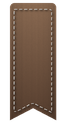
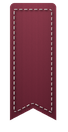
feat(bibliotheque): filtre « Tout », lie de vin seule couleur d'accent (#64)
Signet « en cours » teint en lie de vin (à 100 % il devient le signet
« terminé ») et filtre sélectionné en lie de vin : une seule couleur pour les
états, le reste neutre.

diff --git a/components/ui/FilterChips.tsx b/components/ui/FilterChips.tsx
@@ -1,36 +1,29 @@
 /**
  * Composant FilterChips
  *
- * Une rangée de capsules de filtre, à choix unique :
+ * Une rangée de capsules de filtre, à choix unique, une toujours sélectionnée :
  *
- *    [ En cours ]  [ Non lus ]  [█ Lus █]
+ *    [█ Tout █]  [ En cours ]  [ Non lus ]  [ Lus ]
  *
- * Toucher une capsule la sélectionne ; toucher celle déjà sélectionnée la
- * désélectionne, et tout s'affiche à nouveau. Pas de capsule « Tous » : rien
- * de sélectionné, c'est tout.
- *
- * Carrés arrondis, pas des pilules. Sélectionnée : encre en dégradé (jamais
- * d'aplat), texte crème. Sinon : contour encre sur fond blanc, pour rester
- * lisible par-dessus l'aquarelle du coin.
+ * Carrés arrondis, pas des pilules. Sélectionnée : lie de vin en dégradé, la
+ * couleur d'accent (la même que les signets), texte crème. Sinon : contour encre
+ * sur fond blanc, pour rester lisible par-dessus l'aquarelle du coin.
  */
 
 import { LinearGradient } from 'expo-linear-gradient';
 import React from 'react';
 import { StyleSheet, Text, View } from 'react-native';
-import { borderRadius, colors, fonts, inkAlpha, spacing } from '../../utils/constants';
+import { borderRadius, colors, fonts, inkAlpha, spacing, wineGradient } from '../../utils/constants';
 import PressableScale from './PressableScale';
 
 interface FilterChipsProps<K extends string> {
   options: { key: K; label: string }[];
-  /** Filtre actif, `null` = aucun (tout s'affiche) */
-  value: K | null;
-  onChange: (key: K | null) => void;
+  value: K;
+  onChange: (key: K) => void;
 }
 
 /** Hauteur d'une capsule ; la zone tactile est agrandie à 44 pt par hitSlop */
 export const FILTER_CHIPS_H = 34;
-/** Encre, du noyer vers le noyer profond */
-const SELECTED_GRADIENT = [colors.textSecondary, colors.dark950] as const;
 
 export default function FilterChips<K extends string>({ options, value, onChange }: FilterChipsProps<K>) {
   return (
@@ -42,14 +35,14 @@ export default function FilterChips<K extends string>({ options, value, onChange
             key={option.key}
             style={[styles.chip, !selected && styles.chipIdle]}
             pressedScale={0.94}
-            onPress={() => onChange(selected ? null : option.key)}
+            onPress={() => onChange(option.key)}
             hitSlop={{ top: (44 - FILTER_CHIPS_H) / 2, bottom: (44 - FILTER_CHIPS_H) / 2 }}
             accessibilityRole="button"
             accessibilityLabel={option.label}
             accessibilityState={{ selected }}
           >
             {selected && (
-              <LinearGradient colors={SELECTED_GRADIENT} style={StyleSheet.absoluteFill} />
+              <LinearGradient colors={wineGradient} style={StyleSheet.absoluteFill} />
             )}
             <Text style={[styles.label, selected && styles.labelSelected]}>{option.label}</Text>
           </PressableScale>

diff --git a/components/ui/RibbonBookmark.tsx b/components/ui/RibbonBookmark.tsx
@@ -12,11 +12,11 @@
  *      terminé      en cours     nouveau
  *
  * - `done`    : ruban lie de vin, coche Lucide crème ;
- * - `reading` : ruban écru qu'un brun noyer imprègne depuis le bout, à mon %,
- *               comme une teinture qui monte dans le tissu. Front ondulé et net,
- *               avec une ligne plus foncée là où la teinture s'accumule (comme
- *               le bord d'une aquarelle). Pas de fondu : Lea le trouvait flou.
- *               Le lie de vin reste réservé à « terminé » ;
+ * - `reading` : ruban écru que le lie de vin de « terminé » imprègne depuis le
+ *               bout, à mon %, comme une teinture qui monte dans le tissu : à
+ *               100 %, c'est le signet « terminé ». Front ondulé et net, avec
+ *               une ligne plus foncée là où la teinture s'accumule (comme le bord
+ *               d'une aquarelle). Pas de fondu : Lea le trouvait flou ;
  * - `new`     : ruban écru, étincelle Lucide lie de vin (dernier livre ajouté).
  *
  * Les pictogrammes sont des icônes Lucide posées sur l'image, pas brodés : règle
@@ -53,8 +53,8 @@ const RIBBON_LEFT = 5;
 const RIBBON_WIDTH = 23;
 const RIBBON_TOP = 1.5;
 const RIBBON_END = 60;
-/** Couleur de la ligne plus foncée au front de teinture (noyer profond) */
-const TIDE_LINE = '#3a2a20';
+/** Couleur de la ligne plus foncée au front de teinture (lie de vin profond) */
+const TIDE_LINE = '#3f1520';
 
 /** Pictogramme de chaque ruban : icône Lucide, sa couleur, centrée dans le ruban */
 const ICONS: Record<'done' | 'new', { icon: LucideIcon; color: string; filled: boolean }> = {
@@ -145,7 +145,7 @@ export default function RibbonBookmark(props: RibbonBookmarkProps) {
       </Defs>
 
       <SvgImage href={RIBBONS.track} width={WIDTH} height={HEIGHT} />
-      {/* Le noyer : même tissu, même surpiqûre, calés au pixel, révélés sous le front */}
+      {/* Le lie de vin : même tissu, même surpiqûre, calés au pixel, révélés sous le front */}
       <SvgImage href={RIBBONS.fill} width={WIDTH} height={HEIGHT} clipPath={`url(#dye${id})`} />
       {/* La ligne de teinture accumulée, juste au bord du front */}
       {!full && (

diff --git a/app/library.tsx b/app/library.tsx
@@ -26,7 +26,7 @@ import { useAuthStore } from '../stores/authStore';
 import { useProgressStore } from '../stores/progressStore';
 import { useProjectStore } from '../stores/projectStore';
 import { Challenge } from '../types/supabase';
-import { BookReading, newBookId, readingOf, ReadingState, sortBooks } from '../utils/library';
+import { BookReading, LibraryFilter, newBookId, readingOf, sortBooks } from '../utils/library';
 
 export default function LibraryRoute() {
   const router = useRouter();
@@ -39,8 +39,8 @@ export default function LibraryRoute() {
   const liveProgress = useProgressStore((state) => state.currentUserProgress);
   const userId = useAuthStore((state) => state.user?.id);
   const firstName = useAuthStore((state) => state.user?.first_name);
-  // Filtre En cours / Non lus / Lus : pas retenu, chaque ouverture montre tout
-  const [filter, setFilter] = useState<ReadingState | null>(null);
+  // Filtre Tout / En cours / Non lus / Lus : pas retenu, chaque ouverture montre tout
+  const [filter, setFilter] = useState<LibraryFilter>('all');
 
   // Rafraîchit ma progression en arrière-plan ; le cache s'affiche tout de suite
   useEffect(() => {
@@ -61,7 +61,7 @@ export default function LibraryRoute() {
 
   const books = useMemo(() => {
     const sorted = sortBooks(challenges, progressById);
-    return filter ? sorted.filter((book) => readings[book.id]?.state === filter) : sorted;
+    return filter === 'all' ? sorted : sorted.filter((book) => readings[book.id]?.state === filter);
   }, [challenges, progressById, readings, filter]);
 
   const newId = useMemo(() => newBookId(challenges, progressById), [challenges, progressById]);

diff --git a/components/ui/BookLibrary.tsx b/components/ui/BookLibrary.tsx
@@ -2,7 +2,7 @@
  * Composant BookLibrary
  *
  * La bibliothèque : tous mes livres, rangés sur des étagères empilées,
- * trois couvertures par étagère, sous des filtres En cours / Non lus / Lus.
+ * trois couvertures par étagère, sous des filtres Tout / En cours / Non lus / Lus.
  *
  *    ▐██▌    ┏━━┓    ▛▀▀▜
  *   ░░░░░░░░░░░░░░░░░░░░░░   ← barre en verre flouté, avec ses vis
@@ -35,7 +35,7 @@ import Animated, { Easing, FadeInDown, useReducedMotion } from 'react-native-rea
 import Svg, { Path } from 'react-native-svg';
 import { Challenge } from '../../types/supabase';
 import { colors, creamAlpha, fonts, motion, spacing } from '../../utils/constants';
-import { BookReading, LIBRARY_FILTERS, readingLabel, ReadingState } from '../../utils/library';
+import { BookReading, LIBRARY_FILTERS, LibraryFilter, readingLabel } from '../../utils/library';
 import BookCover, { COVER_RATIO } from './BookCover';
 import RibbonBookmark, { RIBBON_ABOVE_COVER } from './RibbonBookmark';
 import PressableScale from './PressableScale';
@@ -54,9 +54,8 @@ interface BookLibraryProps {
   activeChallengeId: string | null;
   /** Toucher une couverture */
   onSelect: (challenge: Challenge) => void;
-  /** Filtre actif, `null` = tous les livres */
-  filter: ReadingState | null;
-  onFilterChange: (filter: ReadingState | null) => void;
+  filter: LibraryFilter;
+  onFilterChange: (filter: LibraryFilter) => void;
   /** Décor posé SOUS les filtres, dans l'en-tête de la liste (l'aquarelle du coin) */
   headerBackground?: React.ReactNode;
 }

diff --git a/utils/library.ts b/utils/library.ts
@@ -36,7 +36,10 @@ export function readingLabel({ state, percent }: BookReading): string {
 
 // ─── Filtre ────────────────────────────────────────────────────────
 
-export const LIBRARY_FILTERS: { key: ReadingState; label: string }[] = [
+export type LibraryFilter = 'all' | ReadingState;
+
+export const LIBRARY_FILTERS: { key: LibraryFilter; label: string }[] = [
+  { key: 'all', label: 'Tout' },
   { key: 'reading', label: 'En cours' },
   { key: 'unread', label: 'Non lus' },
   { key: 'done', label: 'Lus' },
@@ -75,7 +78,7 @@ export function newBookId(
  * dernière progression ET celle du club : `updated_at` du livre est remis à
  * jour dès qu'un membre avance (trigger `update_challenge_stats`).
  *
- * Plus de choix de tri : les filtres (En cours, Non lus, Lus) l'ont remplacé.
+ * Plus de choix de tri : les filtres (Tout, En cours, Non lus, Lus) l'ont remplacé.
  */
 export function sortBooks(
   books: Challenge[],

diff --git a/utils/constants.ts b/utils/constants.ts
@@ -91,6 +91,13 @@ export const colors = {
 };
 
 /**
+ * Lie de vin : la seule couleur d'accent, pour ce qui dit « état » ou « choisi »
+ * (signets de la bibliothèque, filtre sélectionné). Toujours en dégradé, clair en
+ * haut → foncé en bas. Crème dessus : 7,9:1 sur le clair (#8c3b4c).
+ */
+export const wineGradient = ['#8c3b4c', '#5e1f2e'] as const;
+
+/**
  * Les six post-it du carnet — des pastels tirés vers le noyer.
  *
  * Une couleur = une catégorie, la même pour tout le club. L'encre `ink` garde

diff --git a/scripts/generate-ribbon-bookmarks.py b/scripts/generate-ribbon-bookmarks.py
@@ -20,9 +20,10 @@ Réalisme, dans l'ordre du dessin :
 Variantes :
 - done           : ruban lie de vin, fil crème (livre terminé) ;
 - new            : ruban écru, fil lie de vin (dernier livre ajouté) ;
-- progress-track : ruban écru, fil noyer (livre en cours, le fond) ;
-- progress-fill  : ruban noyer, fil crème, sans ombre (livre en cours, la teinture
-                   que l'app révèle à mon %).
+- progress-track : ruban écru, fil lie de vin (livre en cours, le fond) ;
+- progress-fill  : ruban lie de vin, fil crème, sans ombre (livre en cours, la
+                   teinture que l'app révèle à mon %). À 100 %, c'est le signet
+                   « terminé » : le ruban se teint jusqu'à devenir celui d'un livre lu.
 
 Usage : python3 scripts/generate-ribbon-bookmarks.py
 Dépendances : numpy, Pillow.
@@ -49,20 +50,19 @@ BORDER_INSET = 2.2               # surpiqûre : distance au bord du ruban
 
 WINE = ("#8c3b4c", "#5e1f2e")
 ECRU = ("#f3e9df", "#e1cfbf")
-WALNUT = ("#8a6a52", "#553d2e")
 CREAM_THREAD = "#f6ede4"
 WINE_THREAD = "#7a2e3e"
-WALNUT_THREAD = "#5e4535"
 
 VARIANTS = {
     # Couleur d'accent lie de vin : essai (demande de Lea, 2026-09-17)
     "done": {"ribbon": WINE, "thread": CREAM_THREAD},
     "new": {"ribbon": ECRU, "thread": WINE_THREAD},
-    # En cours : un brun noyer imprègne le ruban écru (le lie de vin est réservé à
-    # « terminé »). L'app révèle le ruban noyer (sans ombre) sous le front, à mon %.
+    # En cours : le lie de vin de « terminé » imprègne le ruban écru. Une seule
+    # couleur d'accent pour les états (Lea, 2026-09-24). L'app révèle le ruban lie
+    # de vin (sans ombre) sous le front, à mon %.
     # Même graine, même géométrie : les deux tissus coïncident au pixel.
-    "progress-track": {"ribbon": ECRU, "thread": WALNUT_THREAD},
-    "progress-fill": {"ribbon": WALNUT, "thread": CREAM_THREAD, "shadow": False},
+    "progress-track": {"ribbon": ECRU, "thread": WINE_THREAD},
+    "progress-fill": {"ribbon": WINE, "thread": CREAM_THREAD, "shadow": False},
 }
 
 

diff --git a/DESIGN.md b/DESIGN.md
@@ -462,10 +462,11 @@ l'accueil.
 Changer de livre ou en ajouter un se fait dans la **bibliothèque**, route
 `/library` en sheet natif titré **Mes lectures**, avec le **+** en verre
 (`GlassButton`) à droite du titre (même parcours que le + de la barre d'onglets).
-Dessous, trois capsules de filtre (`FilterChips`) : **En cours**, **Non lus**,
-**Lus**. Une seule à la fois ; la retoucher la désélectionne et tout revient,
-donc pas de « Tous ». Carrés arrondis (8 pt), pas des pilules. Sélectionnée :
-encre en dégradé, texte crème ; sinon contour sur fond blanc. Les filtres passent
+Dessous, quatre capsules de filtre (`FilterChips`) : **Tout**, **En cours**,
+**Non lus**, **Lus**, une toujours sélectionnée (Tout par défaut). Carrés arrondis
+(8 pt), pas des pilules. Sélectionnée : **lie de vin** en dégradé (`wineGradient`,
+la couleur d'accent, la même que les signets), texte crème ; sinon contour sur
+fond blanc. Les filtres passent
 **par-dessus** l'aquarelle du coin (elle est dans l'en-tête de la liste, dessous). Le filtre n'est pas retenu et le sheet ne rétrécit pas quand on
 filtre. Plus de « Trier par » : l'ordre est fixe, la dernière activité (la
 mienne ou celle du club) en premier. Les
@@ -495,11 +496,13 @@ chaque couverture, calculé sur **ma** progression, jamais sur celle du club :
 - **pas commencé** : rien ;
 - **nouveau** : seul le dernier livre ajouté, tant qu'il n'est pas commencé —
   ruban écru, surpiqûre et étincelle Lucide (`sparkle`) lie de vin ;
-- **en cours** : ruban écru qu'un **brun noyer imprègne depuis le bout du V, à mon
-  %** (10 % au moins, sinon on ne le voit pas), comme une teinture qui monte dans
-  le tissu. Pas le lie de vin, réservé à « terminé ». Front **ondulé et fondu**, avec une ligne à peine plus foncée là où la
-  teinture s'accumule (comme le bord d'une aquarelle) : une coupe droite faisait
-  abrupte. Dans la partie teinte, la surpiqûre passe en crème ;
+- **en cours** : ruban écru que le **lie de vin de « terminé » imprègne depuis le
+  bout du V, à mon %** (10 % au moins, sinon on ne le voit pas), comme une
+  teinture qui monte dans le tissu : à 100 %, c'est le signet « terminé ». Une
+  seule couleur d'accent pour les états (le noyer faisait une couleur de plus).
+  Front **ondulé et net** (le fondu faisait flou), avec une ligne à peine plus
+  foncée là où la teinture s'accumule (comme le bord d'une aquarelle). Dans la
+  partie teinte, la surpiqûre passe en crème ;
 - **terminé** : ruban lie de vin, surpiqûre crème, coche Lucide (`check`) crème.
 
 Essais écartés : pastille en pourcentage « 58 % », anneau de progression sur flou
@@ -626,7 +629,7 @@ du textile réaliste.
 | Variante | Ruban | Surpiqûre | Icône Lucide | Pour |
 |---|---|---|---|---|
 | `done` | lie de vin `#8c3b4c` → `#5e1f2e` | crème | `check` crème | livre terminé |
-| `reading` | écru, imprégné de noyer `#8a6a52` → `#553d2e` à mon % | noyer / crème | — | livre en cours |
+| `reading` | écru, imprégné de lie de vin `#8c3b4c` → `#5e1f2e` à mon % | lie de vin / crème | — | livre en cours |
 | `new` | écru `#f3e9df` → `#e1cfbf` | lie de vin | `sparkle` lie de vin, **pleine** | dernier livre ajouté |
 
 **Pictogrammes : icônes Lucide posées sur le ruban**, jamais brodées ni dessinées
